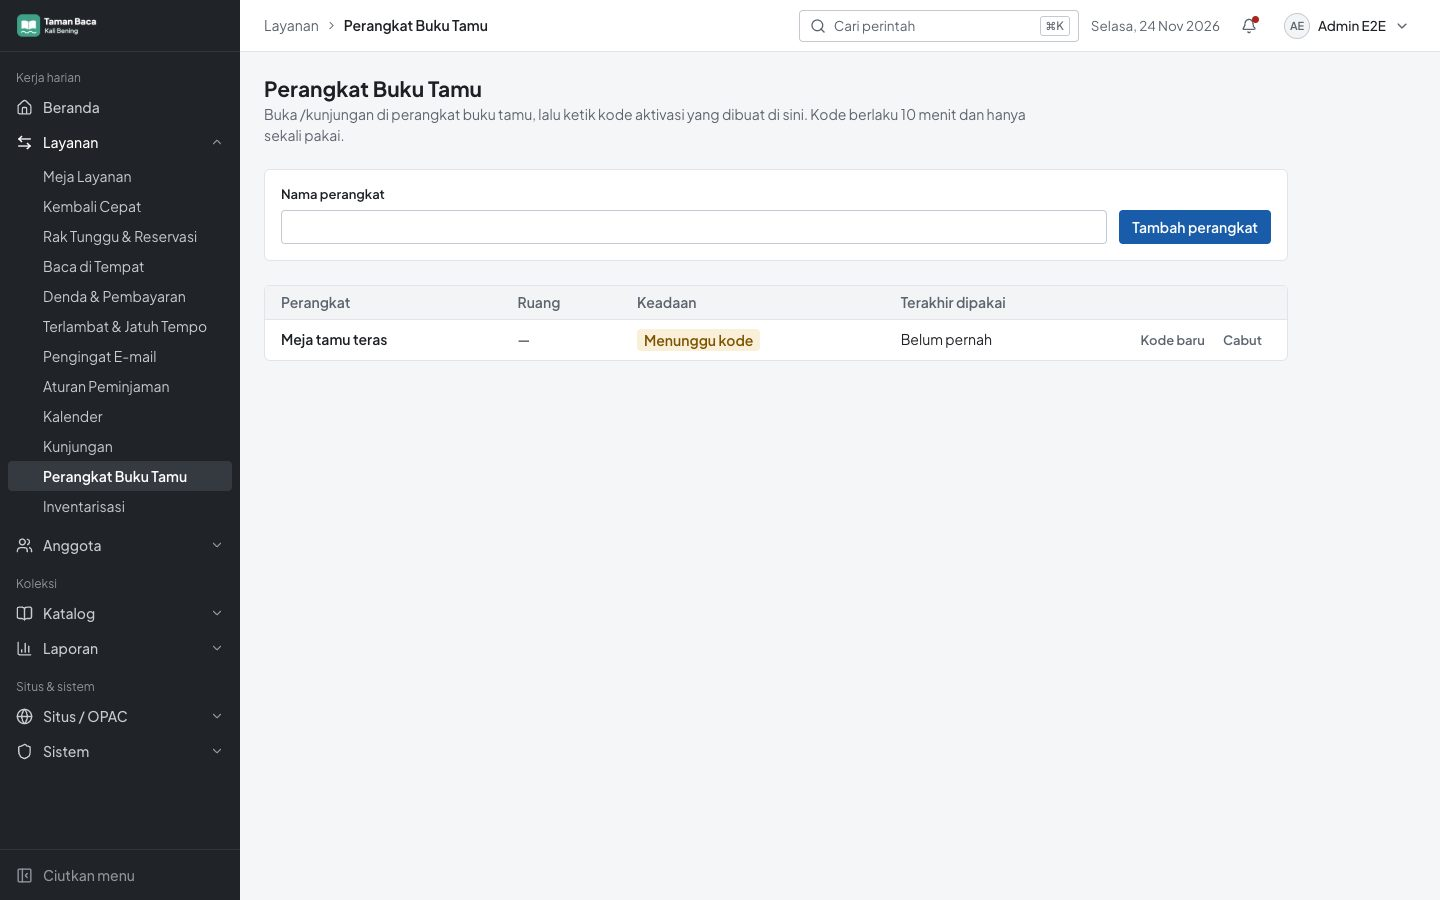
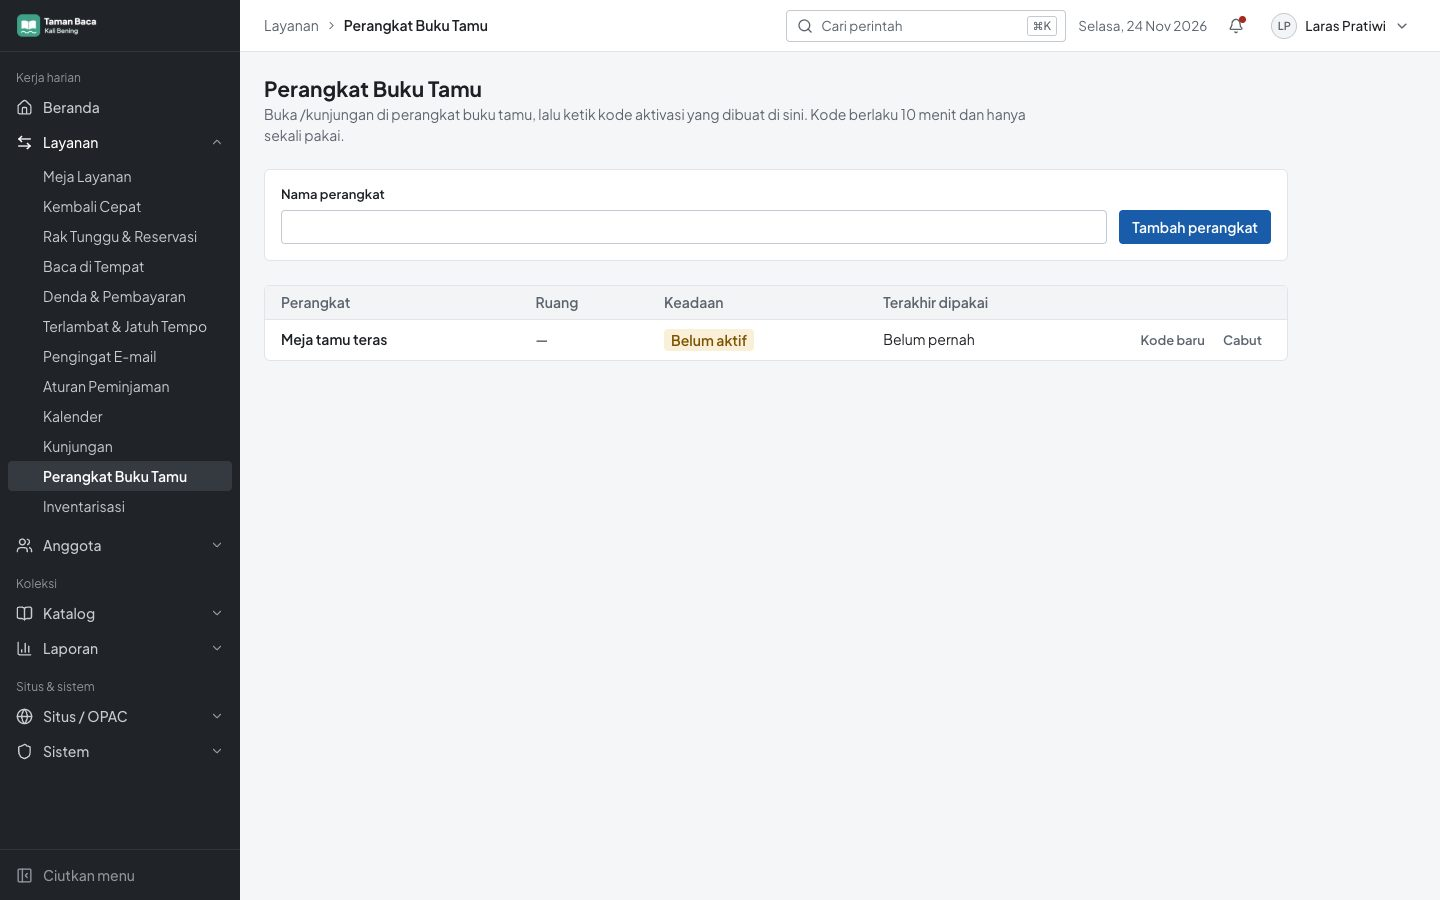
fix(docs): retake the admin screenshots and name the guide's buttons as shown
The admin screens showed an end-to-end test user, and the dashboard showed failed
jobs, an OAI-PMH warning and the version of a test build. The guide named two
buttons by their form titles. The Docker quick start returns to the release zip
until the Docker install guide describes the published image, so the README and
that guide say the same thing.

diff --git a/README.md b/README.md
@@ -77,15 +77,13 @@ sendiri memakai kuncinya sendiri ([docs/ops/release-signing.md](docs/ops/release
 
 ### Docker
 
-Pakai image resmi [`arjunaayasa/altis`](https://hub.docker.com/r/arjunaayasa/altis) di Docker Hub:
-
 1. Salin berkas folder [`docker/`](docker/) ke satu folder di server, lalu jalankan `./altis-init` (menulis `.env`
    dan menampilkan kode pemasangan).
-2. Tambahkan baris `ALTIS_IMAGE=arjunaayasa/altis:0.1.0` ke `.env`.
-3. `docker compose pull && docker compose up -d`, lalu pasang proxy TLS di depannya.
+2. Ekstrak zip rilis ke subfolder `release/`.
+3. `docker compose up -d`, lalu pasang proxy TLS di depannya.
 4. Buka `https://<domain>/install`.
 
-Image juga tetap bisa dibangun sendiri dari zip rilis. Panduan lengkap: [docs/install/docker.md](docs/install/docker.md).
+Panduan lengkap: [docs/install/docker.md](docs/install/docker.md).
 
 ### cPanel
 
@@ -192,11 +190,7 @@ and rollback, offline zip upload or a new Docker image).
 zips are signed with the Community Edition release keys (fingerprints in
 [tools/keys/community/FINGERPRINTS.md](tools/keys/community/FINGERPRINTS.md)). A `-test` build from source is for
 evaluation only, never for real data; a fork that publishes its own releases uses its own keys
-([docs/ops/release-signing.md](docs/ops/release-signing.md)). With Docker, use the official image
-[`arjunaayasa/altis`](https://hub.docker.com/r/arjunaayasa/altis) on Docker Hub: copy `docker/` and run `./altis-init`,
-add `ALTIS_IMAGE=arjunaayasa/altis:0.1.0` to `.env`, run `docker compose pull && docker compose up -d` behind a TLS
-proxy and open `https://<domain>/install` (building the image from the release zip is still possible). The install
-guides are in Indonesian:
+([docs/ops/release-signing.md](docs/ops/release-signing.md)). The install guides are in Indonesian:
 [Docker](docs/install/docker.md), [cPanel](docs/install/cpanel.md), [CloudLinux](docs/install/cloudlinux.md),
 [aaPanel](docs/install/aapanel.md), [PM2](docs/install/pm2.md) and [a single PC](docs/install/node-lokal.md).
 

diff --git a/docs/panduan/kunjungan.md b/docs/panduan/kunjungan.md
@@ -14,7 +14,7 @@ Kunjungan dicatat lewat **buku tamu**: sebuah komputer atau tablet di pintu masu
 Bila perangkat hilang atau diganti, **cabut** perangkatnya di menu yang sama. Perangkat yang dicabut harus diaktifkan
 ulang dengan kode baru.
 
-![Perangkat Buku Tamu: isian nama perangkat dan tombol Tambah perangkat; satu perangkat "Meja tamu teras" berstatus Menunggu kode, dengan tombol Kode baru dan Cabut](../img/admin-buku-tamu.jpg)
+![Perangkat Buku Tamu: isian nama perangkat dan tombol Tambah perangkat; satu perangkat "Meja tamu teras" berstatus Belum aktif, dengan tombol Kode baru dan Cabut](../img/admin-buku-tamu.jpg)
 
 ## Cara pengunjung mengisi
 

diff --git a/docs/panduan/katalog.md b/docs/panduan/katalog.md
@@ -26,7 +26,7 @@ jumlahnya; chip saringan mempersempit daftar; "Muat lagi" menambah baris.
 
 Menambah cantuman:
 
-1. Tekan **Cantuman baru** dan pilih jenis bahan.
+1. Tekan **Tambah cantuman** dan pilih jenis bahan.
 2. Cara tercepat: pindai atau ketik ISBN lalu cari. Bila server salin katalog (SRU) sudah diaktifkan, formulir terisi
    dari cantuman perpustakaan lain. Periksa isinya, lalu simpan.
 3. Bila mengetik sendiri: isi judul, pengarang (nama keluarga di depan, misalnya `Toer, Pramoedya Ananta`), penerbit,

diff --git a/docs/panduan/anggota.md b/docs/panduan/anggota.md
@@ -16,7 +16,7 @@ Menu **Anggota** di sidebar.
 
 ## Menambah anggota
 
-**Anggota → Daftar Anggota → Anggota baru.**
+**Anggota → Daftar Anggota → Tambah anggota.**
 
 ![Formulir anggota baru: bagian Data diri dan Kontak, pratinjau kartu anggota dengan barkod, dan kotak Kemungkinan duplikat](../img/admin-anggota-baru.jpg)
 
